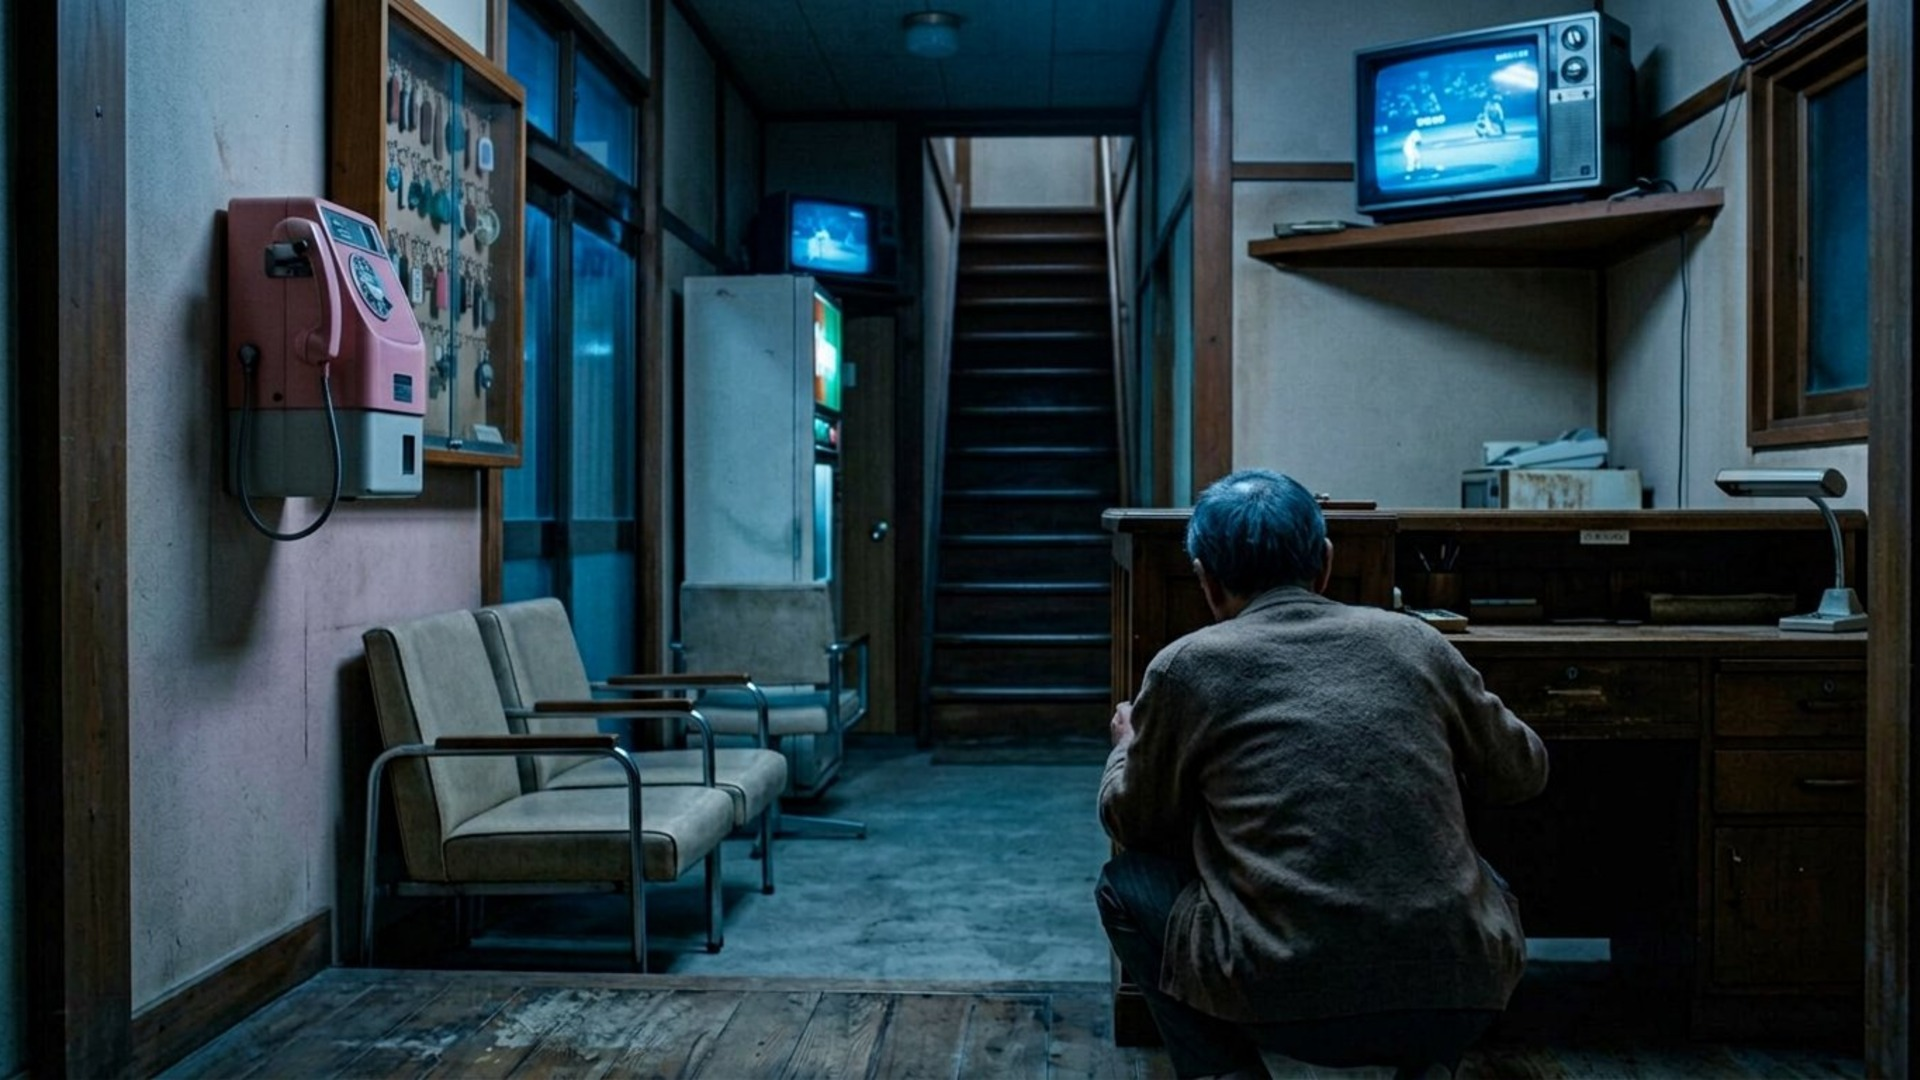
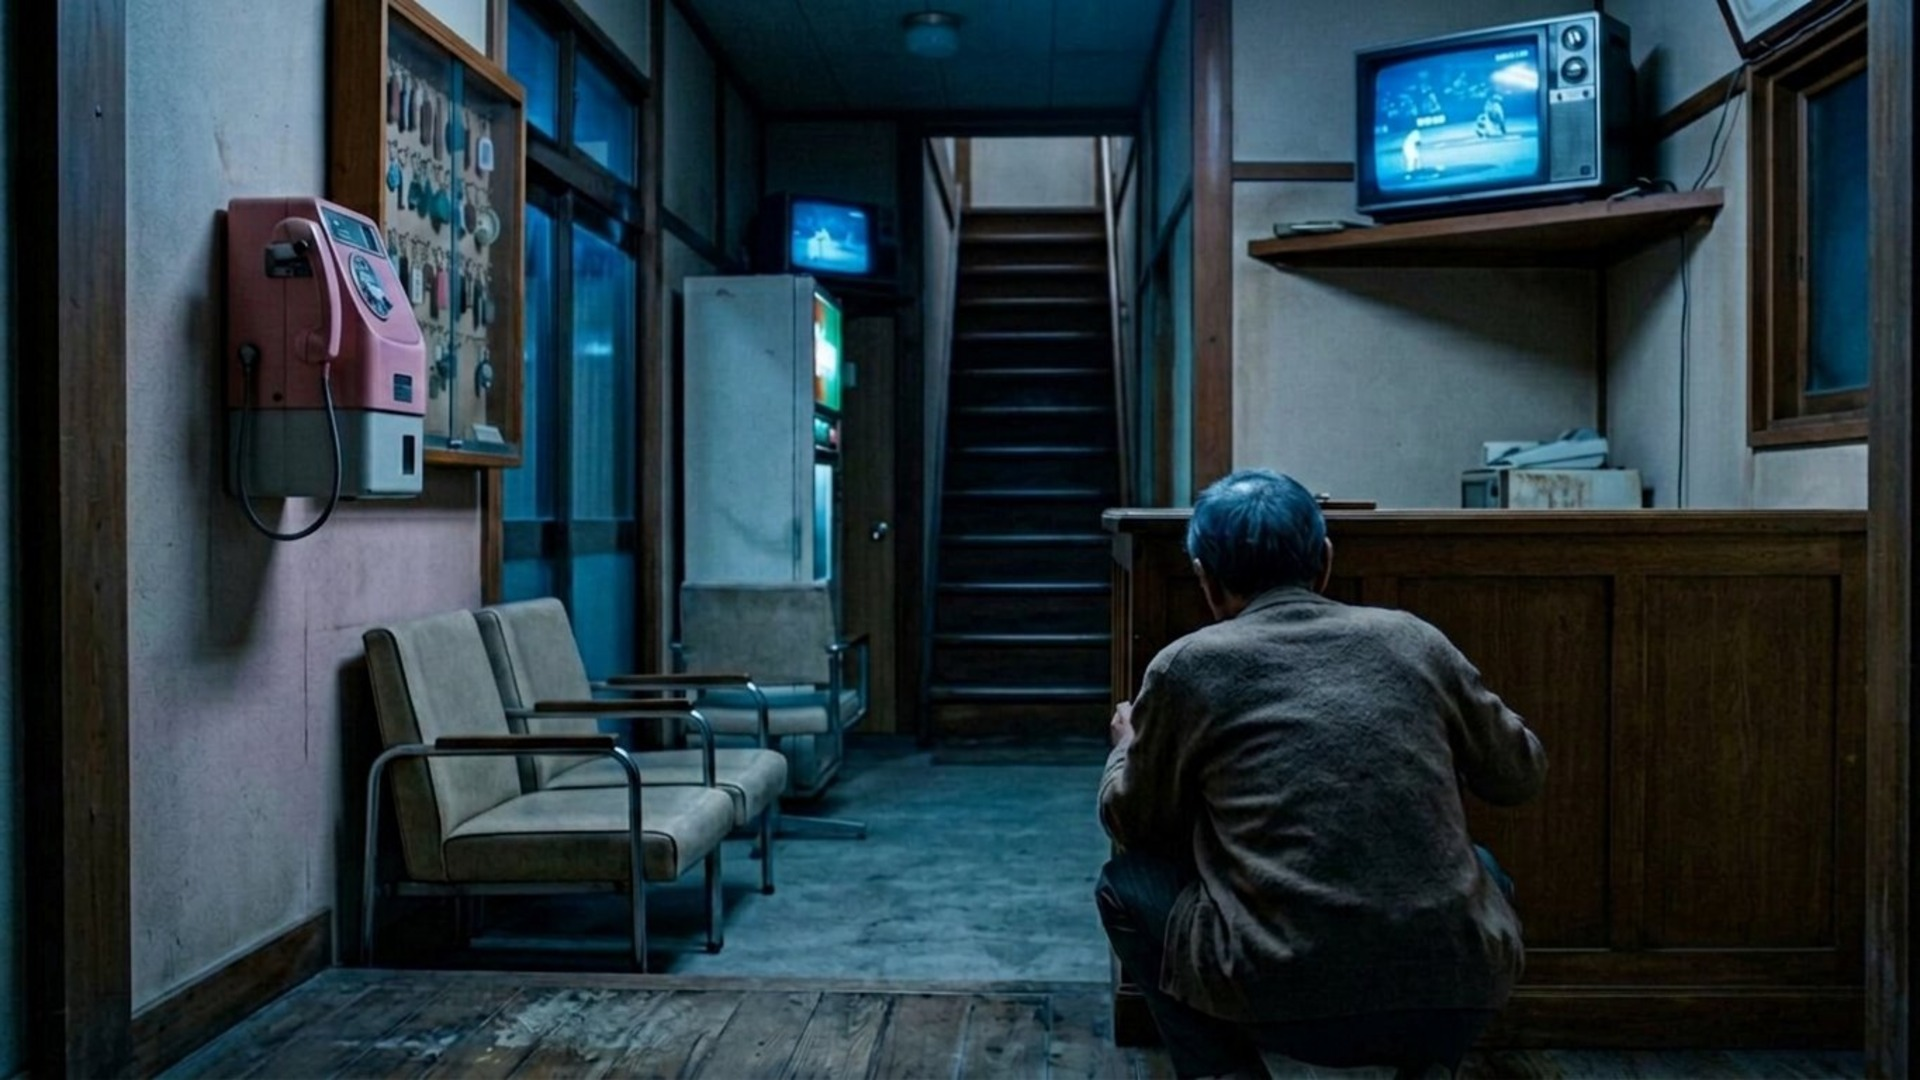
Retake the Hive stool, the cream corridor and the plain counter.
Shot 266 is the dark interior, shot 268 is cream plaster, and shot 269 is a plain wooden counter. The low fence and the younger hands were reviewed and not installed.

diff --git a/docs/neonoire/handoff.md b/docs/neonoire/handoff.md
@@ -35,7 +35,7 @@ The director's first and lasting request is **scene and character consistency**.
 
 ## Note — the cold open's consistency, audited 26 September 2026
 
-The user asked whether the cold open looks consistent. **Answer: not yet, and here is exactly why.** Shots 1–10 were rebuilt 16:9 in the cold-open pass; shots 11–13 were rebuilt 16:9 on 26 September 2026 from the same street masters (`s1/01`, `s1/06`, `s1/08`) and the same beats, so **1–13 now read as one street, one Mara (clip, denim, bag), one sedan, two masked men** — reviewed frame by frame at full size that day. **The cold open (1–28) and scene 3 (29–32) are wholly 16:9 — no legacy 2.39:1 frame remains anywhere in the numbered board** (batches two, three and four landed on 26 September 2026); the older style keys stay 2.39:1 references by design. Batch four also closed every carried detail caveat: shot 235's clock reads 9:58, shot 234's box reads TOKYO, shot 27's notebook matches shot 20's brown leather wrap, shot 21's rain falls through the open door, shot 31's window matches 29's geometry. Prop masters live in `public/images/neonoire/props/` (SHIOHAMA cassette label, DANIEL VOSS notebook cover). Batch five (same day) retaken shot 235 after the director's check: Vera at the lounge bar is now ash-blonde per her sheets, the film's only hair drift, now locked by a verify assertion. That is not drift by accident — it is budget: every turn's ten generations were spent on the forward numbered board in screenplay order, on the director's instruction that there be **no more gap-filling until the shots were done**, and the shots only finished on 26 September 2026 with scenes 65–71. The repo rule forbids cropping legacy frames to fake 16:9, so they stay honestly marked **Needs review / REVISION PENDING** (the builder says so from `coldOpenCompletedThrough`, now 13) until regenerated. With the board complete, the cold open and scene 3 revised and the inserts shot, the first boarding's queue is empty. Coverage is at 269. The train-window reflection is a small face in the upper corner of the glass. Shot 265 shows Vera on the third stool, two empty stools to her left. Shot 262 still has Mr. Noda beside the counter. Okada now looks down the bar. Jack's feet are on the chair. The prosecutor line is four. Jack getting Mr. Noda out is boarded with no weapons in frame. What remains besides the logged caveats is director-ordered.
+The user asked whether the cold open looks consistent. **Answer: not yet, and here is exactly why.** Shots 1–10 were rebuilt 16:9 in the cold-open pass; shots 11–13 were rebuilt 16:9 on 26 September 2026 from the same street masters (`s1/01`, `s1/06`, `s1/08`) and the same beats, so **1–13 now read as one street, one Mara (clip, denim, bag), one sedan, two masked men** — reviewed frame by frame at full size that day. **The cold open (1–28) and scene 3 (29–32) are wholly 16:9 — no legacy 2.39:1 frame remains anywhere in the numbered board** (batches two, three and four landed on 26 September 2026); the older style keys stay 2.39:1 references by design. Batch four also closed every carried detail caveat: shot 235's clock reads 9:58, shot 234's box reads TOKYO, shot 27's notebook matches shot 20's brown leather wrap, shot 21's rain falls through the open door, shot 31's window matches 29's geometry. Prop masters live in `public/images/neonoire/props/` (SHIOHAMA cassette label, DANIEL VOSS notebook cover). Batch five (same day) retaken shot 235 after the director's check: Vera at the lounge bar is now ash-blonde per her sheets, the film's only hair drift, now locked by a verify assertion. That is not drift by accident — it is budget: every turn's ten generations were spent on the forward numbered board in screenplay order, on the director's instruction that there be **no more gap-filling until the shots were done**, and the shots only finished on 26 September 2026 with scenes 65–71. The repo rule forbids cropping legacy frames to fake 16:9, so they stay honestly marked **Needs review / REVISION PENDING** (the builder says so from `coldOpenCompletedThrough`, now 13) until regenerated. With the board complete, the cold open and scene 3 revised and the inserts shot, the first boarding's queue is empty. Coverage is at 269. The train-window reflection is a small face in the upper corner of the glass. Shot 265 shows Vera on the third stool, two empty stools to her left. Shot 266 is now the dark interior. Shot 268 is cream plaster, not dark paneling. Shot 269 is a plain wooden counter on the staff side. Shot 262 still has Mr. Noda beside the counter. Okada now looks down the bar. Jack's feet are on the chair. The prosecutor line is four. Jack getting Mr. Noda out is boarded with no weapons in frame. What remains besides the logged caveats is director-ordered.
 
 ## Note — how the small details are done (the self-improvement loop, 26 September 2026)
 

diff --git a/docs/neonoire/passes/coverage-265-269.md b/docs/neonoire/passes/coverage-265-269.md
@@ -21,8 +21,9 @@ Review sheet: [coverage-265-269.jpg](../../../public/images/neonoire/reviews/cov
 ## Locks and caveats
 
 - **265** six stools. She sits on the third from the left, two empty stools to her left, three to her right. Ash-blonde, teal peacoat, red bird clip. The hanging sign is not the old sign from `s86/121`. The face is mostly the back of the head. Shots 160 and 260 still seat her at the right end.
-- **266** the same count at the Hive, charcoal coat, no clip. The stall reads street-facing, more open than `s56/223`.
+- **266** the same count at the Hive, charcoal coat, no clip. Retake: the street window is gone; it is the dark interior.
 - **267** both feet are over the one-metre gap, not on a water tank. No letterbox. The walkway fence reads taller than waist-high. Shot 131 is unchanged.
-- **268** wood doors, not a ryokan. The paper screens are torn in a line. No weapons. The paneling is darker than the lobby's cream walls. Shot 261 is unchanged.
-- **269** he is on the staff side, the counter between him and the lobby. Baseball on the CRT, never static. No weapons. The counter reads more like a desk than the lobby's simple wooden counter. Shot 262 is unchanged.
+- **268** retake: cream plaster and wood trim, not a ryokan and not dark paneling. The paper screens are torn in a line. No weapons. Shot 261 is unchanged.
+- **269** retake: the desk and lamp are gone. He is on the staff side of a plain wooden counter. Baseball on the CRT, never static. No weapons. Shot 262 is unchanged.
+- The low-fence edit put a foot on the walkway. The younger-hands edit left the hands old and lost a letter of DANIEL VOSS. Neither was installed.
 - Shot 136 already shows red tail lights receding. The approaching-train note was stale and has been corrected. No new frame.

diff --git a/docs/neonoire/scenes/n56-vera-on-the-third-stool.md b/docs/neonoire/scenes/n56-vera-on-the-third-stool.md
@@ -33,5 +33,5 @@ LIGHT: Overcast soft
 TIME: 6
 ID: neonoire-shot-266
 IMAGE: 224-stool-three.jpg
-NOTE: Coverage, shot 266. Six stools. She sits on the third from the left, two empty stools to her left and three empty to her right. Ash-blonde, charcoal coat, no hair clip. Kaneko follows s86/123-fifty-years.jpg. CAVEAT: the stall reads street-facing, more open than the interior in s56/223-the-third-stool.jpg; keep them the same shop on set.
+NOTE: Coverage, shot 266. Six stools. She sits on the third from the left, two empty stools to her left and three empty to her right. Ash-blonde, charcoal coat, no hair clip. Kaneko follows s86/123-fifty-years.jpg. The street window is gone; this is the dark interior, fluorescent and shutter, held to s56/223-the-third-stool.jpg.
 

diff --git a/docs/neonoire/scenes/n41-roadside-inn-upstairs-corridor.md b/docs/neonoire/scenes/n41-roadside-inn-upstairs-corridor.md
@@ -45,4 +45,4 @@ LIGHT: Low key
 TIME: 5
 ID: neonoire-shot-268
 IMAGE: 179-same-wood.jpg
-NOTE: Coverage, shot 268. The corridor follows s32/170-just-one-night.jpg in wood and proportion, not a ryokan. Jack follows sheets/jack.jpg, seen from behind. The paper screens are torn in a line. No weapons. CAVEAT: the paneling is darker and more complete than the lobby's cream walls; keep them on the same building on set.
+NOTE: Coverage, shot 268. Cream plaster walls with wood trim and ordinary wood doors, matching s32/170-just-one-night.jpg, not a ryokan. Jack follows sheets/jack.jpg, seen from behind. The paper screens are torn in a line. No weapons.

diff --git a/docs/neonoire/scenes/n40-roadside-inn-lobby.md b/docs/neonoire/scenes/n40-roadside-inn-lobby.md
@@ -45,4 +45,4 @@ LIGHT: Low key
 TIME: 5
 ID: neonoire-shot-269
 IMAGE: 178-staff-side.jpg
-NOTE: Coverage, shot 269. Mr. Noda follows s46/213-clutch-each-other.jpg. He is on the staff side, the counter between him and the lobby. The CRT shows baseball and is never static. No weapons. CAVEAT: the counter reads more like a desk than the lobby's simple wooden counter.
+NOTE: Coverage, shot 269. Mr. Noda follows s46/213-clutch-each-other.jpg. He is on the staff side, the counter between him and the lobby. The desk and lamp are gone; it is a plain wooden counter. The CRT shows baseball and is never static. No weapons.
